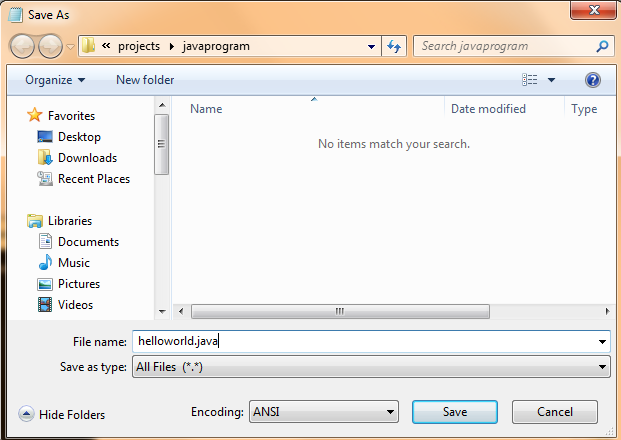
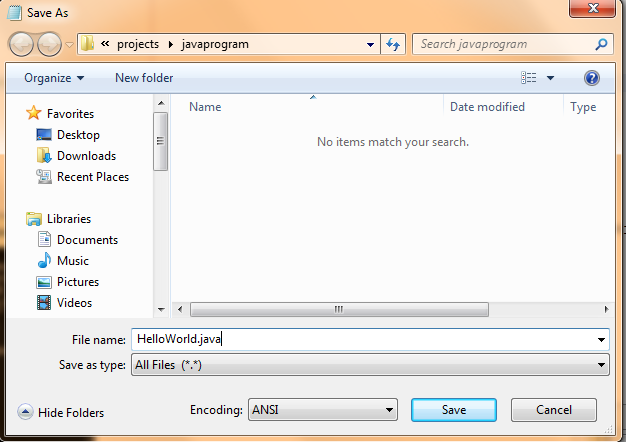
java4kids finished Hello World on Command Line

Changed region(s): [[0.0, 0.0, 1.0, 1.0], [0.4895, 0.2955, 0.7649, 0.3545]]

diff --git a/views/ch01/helloworld.html b/views/ch01/helloworld.html
@@ -36,7 +36,7 @@ public class HelloWorld {
 </code></pre>
                         </div>   
                         <div class="6u 12u(small)"> 
-                            <span class="image fit"><img src="assets/img/views/ch01/helloworld/01-commandline-helloworld.png" alt="" /></span>
+                            <span class="image fit"><img src="assets/img/views/ch01/helloworld/01-write-source-code.png" alt="" /></span>
                         </div>
                     </div>
 
@@ -44,7 +44,7 @@ public class HelloWorld {
                 <li>
                     <div>Save file name</div>
                     <div class="row">
-                        <div  class="6u 12u(small)">Save file name as "helloworld.java" in to your working directory.  For our case: C:\projects\javaprogram\</div>
+                        <div  class="6u 12u(small)">Save file name as "HelloWorld.java" (case sensitive to class name) in to your working directory.  For our case: C:\projects\javaprogram\</div>
                         <div  class="6u 12u(small)">
                             <span class="image fit"><img src="assets/img/views/ch01/helloworld/02-saveas-file.png" alt="" /></span>
                         </div>
@@ -58,7 +58,7 @@ public class HelloWorld {
                                 <li>Open Command Line</li>
                                 <li>Navigate the java file by locating to "C:\projects\javaprogram\"</li>
                                 <li>Type: dir</li>
-                                <li>helloworld.java will be shown on the list</li>
+                                <li>HelloWorld.java will be shown on the list</li>
                             </ol>
                         </div>
                         <div  class="6u 12u(small)">
@@ -77,6 +77,33 @@ public class HelloWorld {
                         </div>
                         <div  class="6u 12u(small)">
                             <span class="image fit"><img src="assets/img/views/ch01/helloworld/04-compile-file.png" alt="" /></span>
+                        </div>
+                    </div>
+                </li>                
+                <li>
+                    <div>View Result</div>
+                    <div class="row">
+                        <div  class="6u 12u(small)">
+                            <ol>
+                                <li>Type: dir</li>
+                                <li>On the list of the files, there is new file called HelloWorld.java</li>                                
+                            </ol>
+                        </div>
+                        <div  class="6u 12u(small)">
+                            <span class="image fit"><img src="assets/img/views/ch01/helloworld/05-view-result.png" alt="" /></span>
+                        </div>
+                    </div>
+                </li>                
+                <li>
+                    <div>Run Java Class</div>
+                    <div class="row">
+                        <div  class="6u 12u(small)">
+                            <ol>
+                                <li>Type: Java HelloWorld</li>          
+                            </ol>
+                        </div>
+                        <div  class="6u 12u(small)">
+                            <span class="image fit"><img src="assets/img/views/ch01/helloworld/06-run-java-class.png" alt="" /></span>
                         </div>
                     </div>
                 </li>
